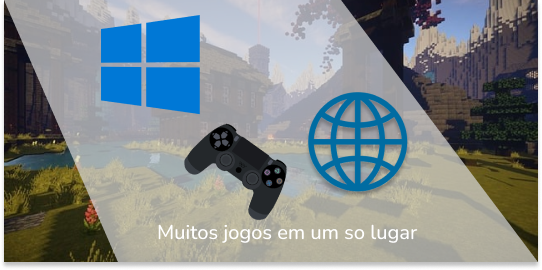
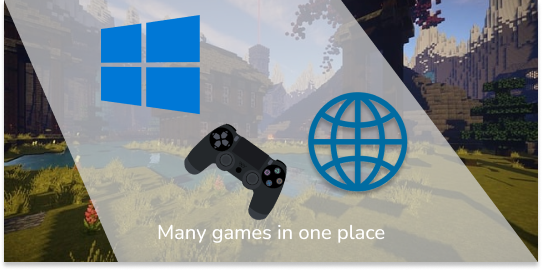
up

Changed region(s): [[0.3247, 0.8296, 0.7675, 0.9185]]

diff --git a/src/components/infoBottom/bottomBar.js b/src/components/infoBottom/bottomBar.js
@@ -8,8 +8,8 @@ export default function Widget_BottomBar() {
           <div>
             <h1>Play games</h1>
             <p>
-              Site Play Games Diversão garantida com jogos incríveis! Explore e
-              divirta-se com a melhor seleção de jogos.
+              Play Games: Guaranteed fun with amazing games! Explore and have a
+              great time with the best selection of games.
             </p>
           </div>
         </div>
@@ -17,11 +17,10 @@ export default function Widget_BottomBar() {
           <div>
             <h1>{"<DEV>"}</h1>
             <p>
-              Ola me chamo marco, desenvolvi esse site para estudar e
-              desenvolver melhor minhas habilidades de progamação e
-              desenvolvimento
+              Hello, my name is Marco. I developed this website to study and
+              enhance my programming and development skills.
             </p>
-            <h1 className={style.person}>{"<DEV />"}</h1>
+            <h1 className={style.person}>{"</DEV>"}</h1>
           </div>
         </div>
       </div>
